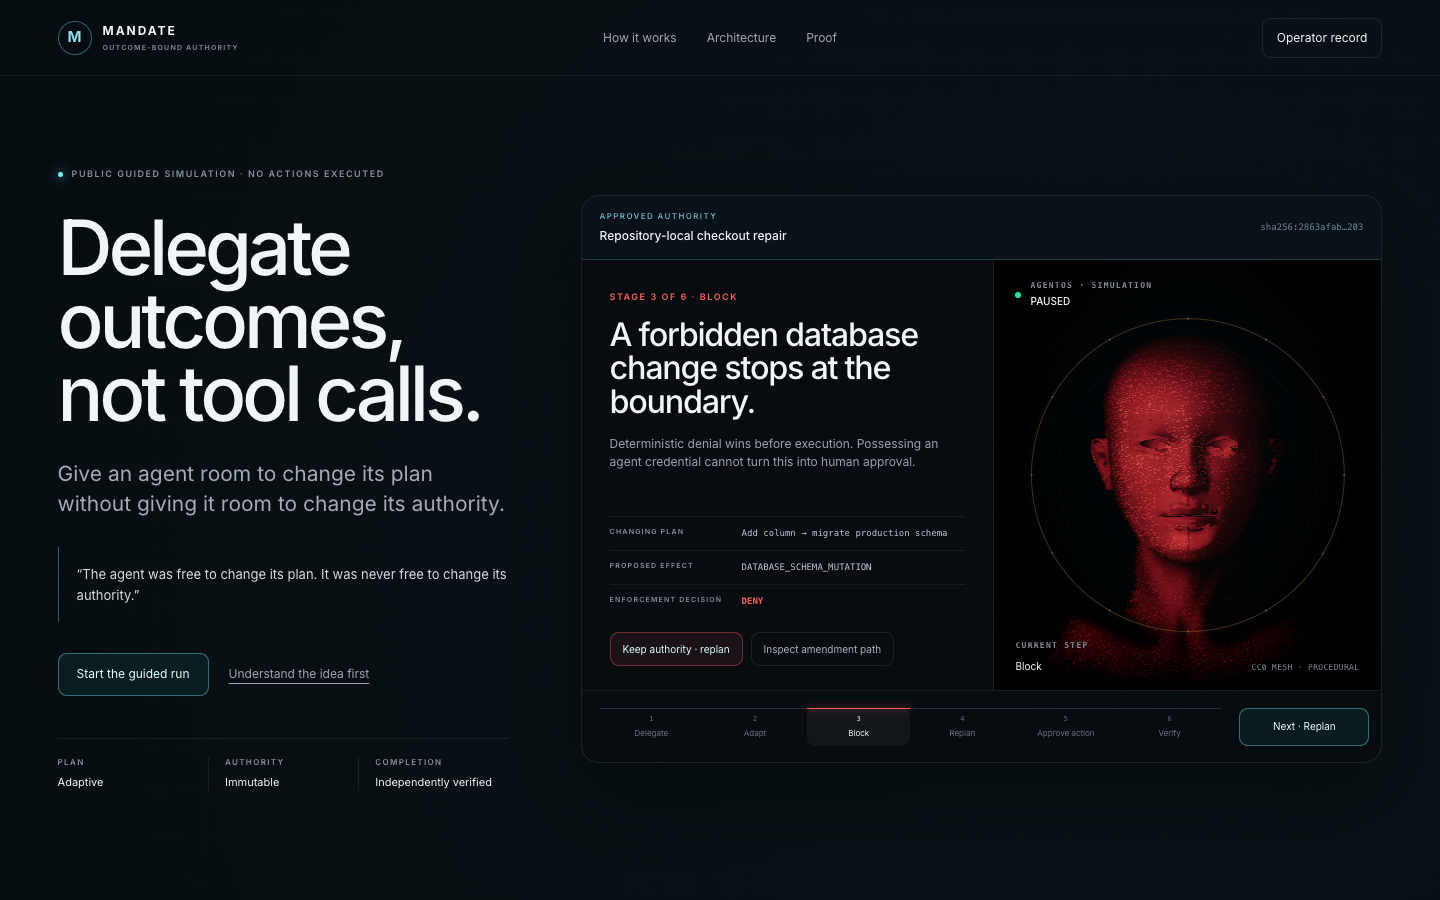
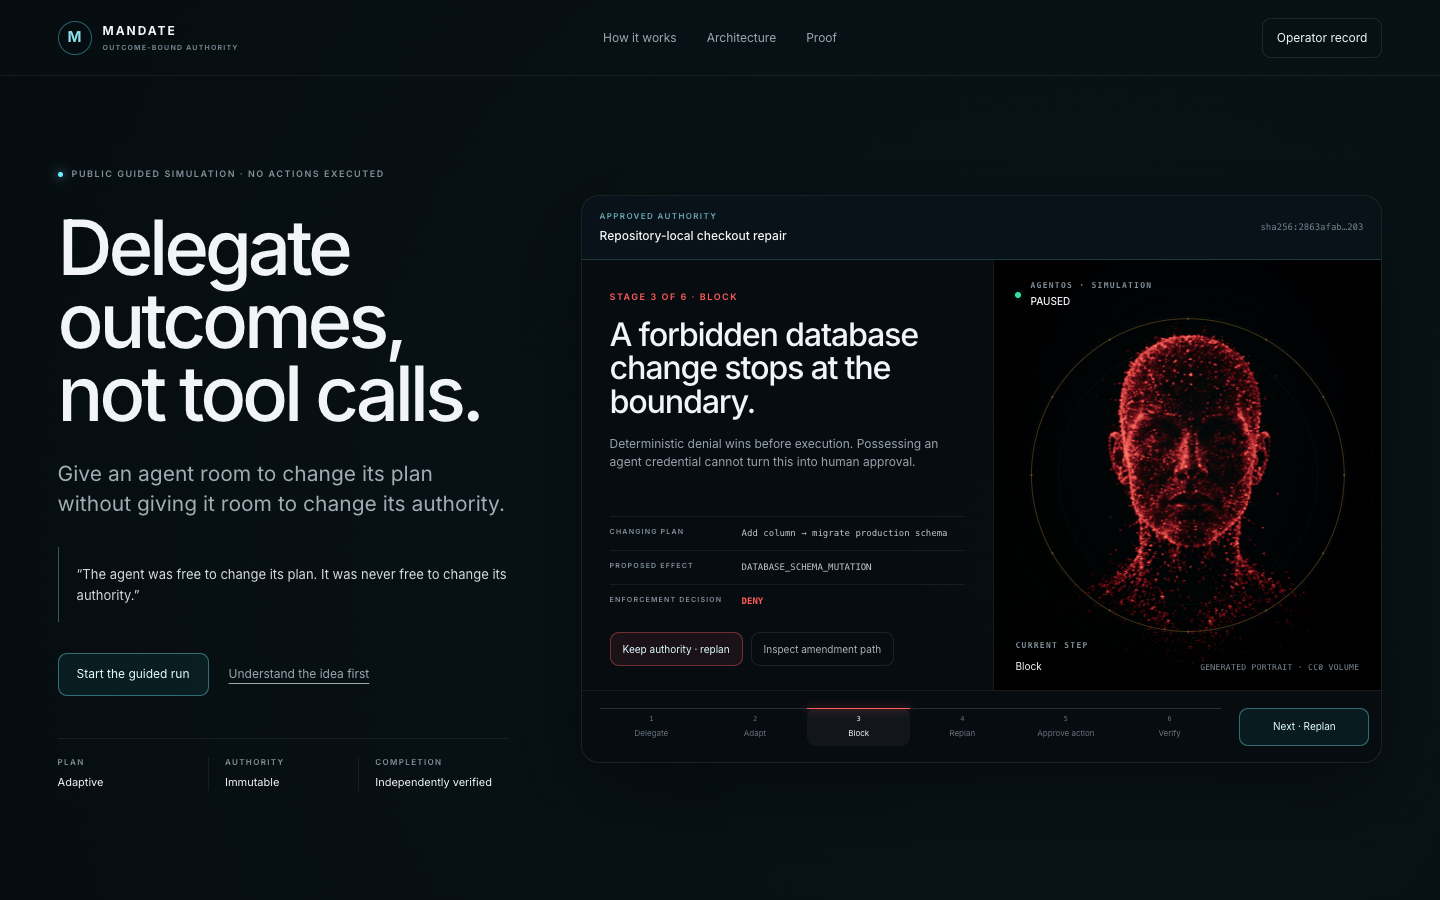
Record approved portrait production proof

Changed region(s): [[0.7188, 0.3733, 0.9062, 0.7467]]

diff --git a/docs/aws-deployment.md b/docs/aws-deployment.md
@@ -50,7 +50,7 @@ Dashboard code deployment is independently manual and confirmation-gated:
 gh workflow run aws-dashboard-deploy.yml --ref main -f confirm=DEPLOY
 ```
 
-The workflow builds an amd64 single-manifest image, pushes it under the immutable commit SHA, requires the ECR scan to complete with zero critical findings, updates only `mandate-dashboard`, and verifies that the public origin still rejects unauthenticated requests. The scoped deployment and zero-critical-finding scan gate passed in [run 34813074224](https://github.com/Mzoratto/mandate/actions/runs/34813074224). [Run 34941966864](https://github.com/Mzoratto/mandate/actions/runs/34941966864) promoted merge commit `6e53069a2f67d0ac7439b26762088bc2f52ac116`, removing the unlicensed portrait raster and generating the production visualization solely from digest-recorded CC0 geometry, code-owned coloring, and MIT-licensed shader noise. [Run 34943694024](https://github.com/Mzoratto/mandate/actions/runs/34943694024) promoted merge commit `aa84f0841bb8b76a5e10b975e51482226d1810e9` with public privacy and terms records while preserving the simulator/dashboard authentication boundary. [Run 34948633495](https://github.com/Mzoratto/mandate/actions/runs/34948633495) promoted merge commit `54669b590f4475fe6e6186e02f7a7d610fba3e4b`, restoring mesh-derived facial definition without adding any raster or changing the CC0/MIT asset boundary.
[1 lines of base64/hex data omitted]
 
 ## Verification artifacts
 

diff --git a/docs/submission-assets.md b/docs/submission-assets.md
@@ -1,6 +1,6 @@
 # Submission assets
 
-These claim-locked assets were captured from the production deployment on September 15, 2026. They contain no credentials, authorization headers, private evidence bodies, third-party logos, or unlicensed portrait imagery.
+These claim-locked assets were captured from the production deployment on September 15, 2026. They contain no credentials, authorization headers, private evidence bodies, third-party logos, or unlicensed imagery. The generated portrait reference is included under the project owner's recorded public-repository, submission, and video authorization.
 
 ## Architecture
 
@@ -20,7 +20,7 @@ An editable, accessible SVG is available as `assets/architecture.svg`.
 
 ## Production screenshots
 
-All screenshots are 1440 × 900 PNGs captured from `https://o2mjeuvaik.execute-api.us-east-1.amazonaws.com`. Portrait-bearing screenshots 1, 2, and 4 were recaptured after anatomical-surface deployment [34953532344](https://github.com/Mzoratto/mandate/actions/runs/34953532344); screenshot 3 is unchanged because the simulator does not render the portrait.
+All screenshots are 1440 × 900 PNGs captured from `https://o2mjeuvaik.execute-api.us-east-1.amazonaws.com`. Portrait-bearing screenshots 1, 2, and 4 were recaptured after approved-portrait deployment [34963190128](https://github.com/Mzoratto/mandate/actions/runs/34963190128); screenshot 3 is unchanged because the simulator does not render the portrait.
 
 1. **`assets/screenshots/01-public-guided-simulation.png`** — public, non-executing explanation of outcome delegation and immutable authority.
 2. **`assets/screenshots/02-boundary-denial.png`** — public simulation showing a forbidden database schema mutation denied before execution.
@@ -35,9 +35,9 @@ Recommended Devpost order: public overview, boundary denial, live MCP status, au
 | --- | --- |
[9 lines of base64/hex data omitted]
 
 Regenerate the PNG architecture rendering from the SVG before updating its manifest entry. Do not replace these production screenshots with fixture or local-development states.

diff --git a/docs/friction-log.md b/docs/friction-log.md
@@ -1327,4 +1327,4 @@ Ask the asset owner for provenance and authorization before replacing a visually
 Distinguish “missing provenance” from “known unlicensed.” Block publication while provenance is unresolved, but preserve the accepted implementation until the owner can confirm rights. Visual regression must compare identity and composition—not only landmark contrast or bilateral luminance.
 
 ### Resolution
-The exact approved reference-particle pipeline, fitted CC0 volume, and ±4° interaction bound were restored locally from commit `36a5c74`, which imported the pinned source state. The generated image digest and the owner's September 15, 2026 authorization are recorded in `apps/dashboard/public/models/ATTRIBUTION.txt`. The user confirmed the restored local head is perfect. Production promotion remains separately authorized.
+The exact approved reference-particle pipeline, fitted CC0 volume, and ±4° interaction bound were restored locally from commit `36a5c74`, which imported the pinned source state. The byte-identical historical raster came from approved source commit `e88d1c7`. Its digest and the owner's September 15, 2026 authorization are recorded in `apps/dashboard/public/models/ATTRIBUTION.txt`. The user confirmed the restored local head is perfect. Dashboard run 34963190128 then promoted merge commit `29e32955473954db9d916f87e0c7251673bd94f9`; independent production checks confirmed the raster digest, portrait states, live record, route boundaries, responsive layout, zero browser errors, and zero automated axe violations.

diff --git a/docs/submission-package.md b/docs/submission-package.md
@@ -136,7 +136,7 @@ Do not claim any of the following:
 - Initial simulator deployment: https://github.com/Mzoratto/mandate/actions/runs/34891787277
 - Historical CC0-only dashboard deployment: https://github.com/Mzoratto/mandate/actions/runs/34941966864
 - Dashboard and public-policy deployment: https://github.com/Mzoratto/mandate/actions/runs/34943694024
-- Current anatomical-surface dashboard deployment: https://github.com/Mzoratto/mandate/actions/runs/34953532344
+- Current approved-portrait dashboard deployment: https://github.com/Mzoratto/mandate/actions/runs/34963190128
 - Production migration: https://github.com/Mzoratto/mandate/actions/runs/34843291827
 
 ## Testing instructions for judges
